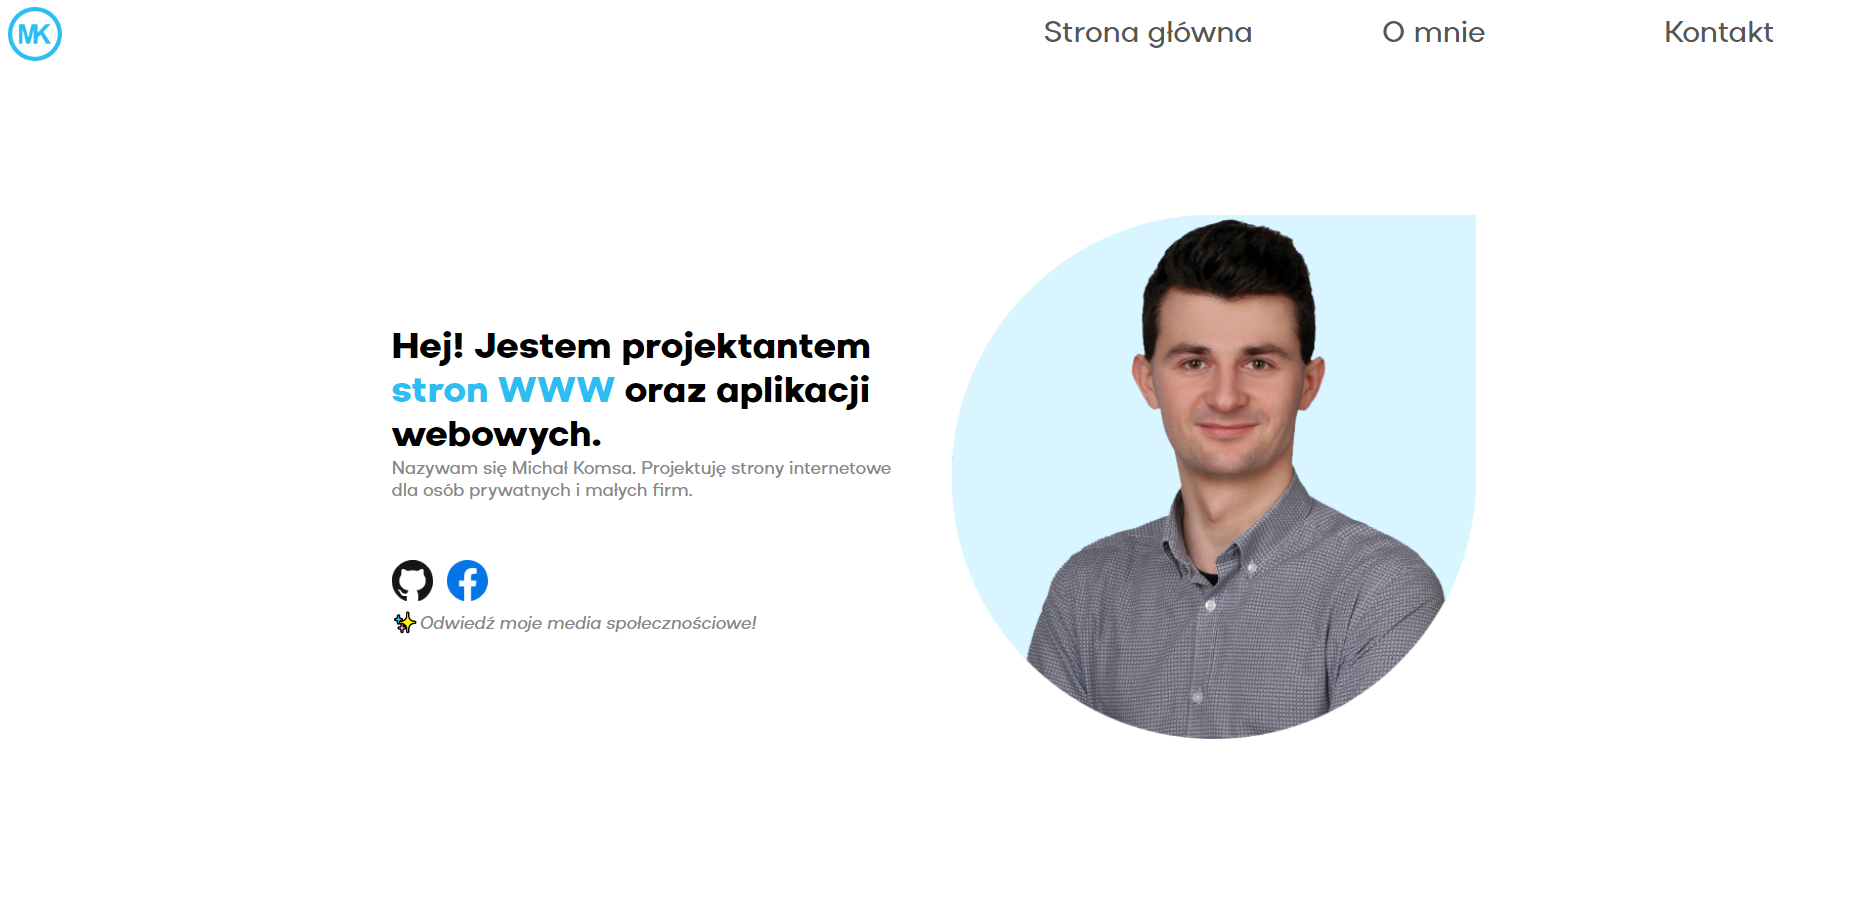
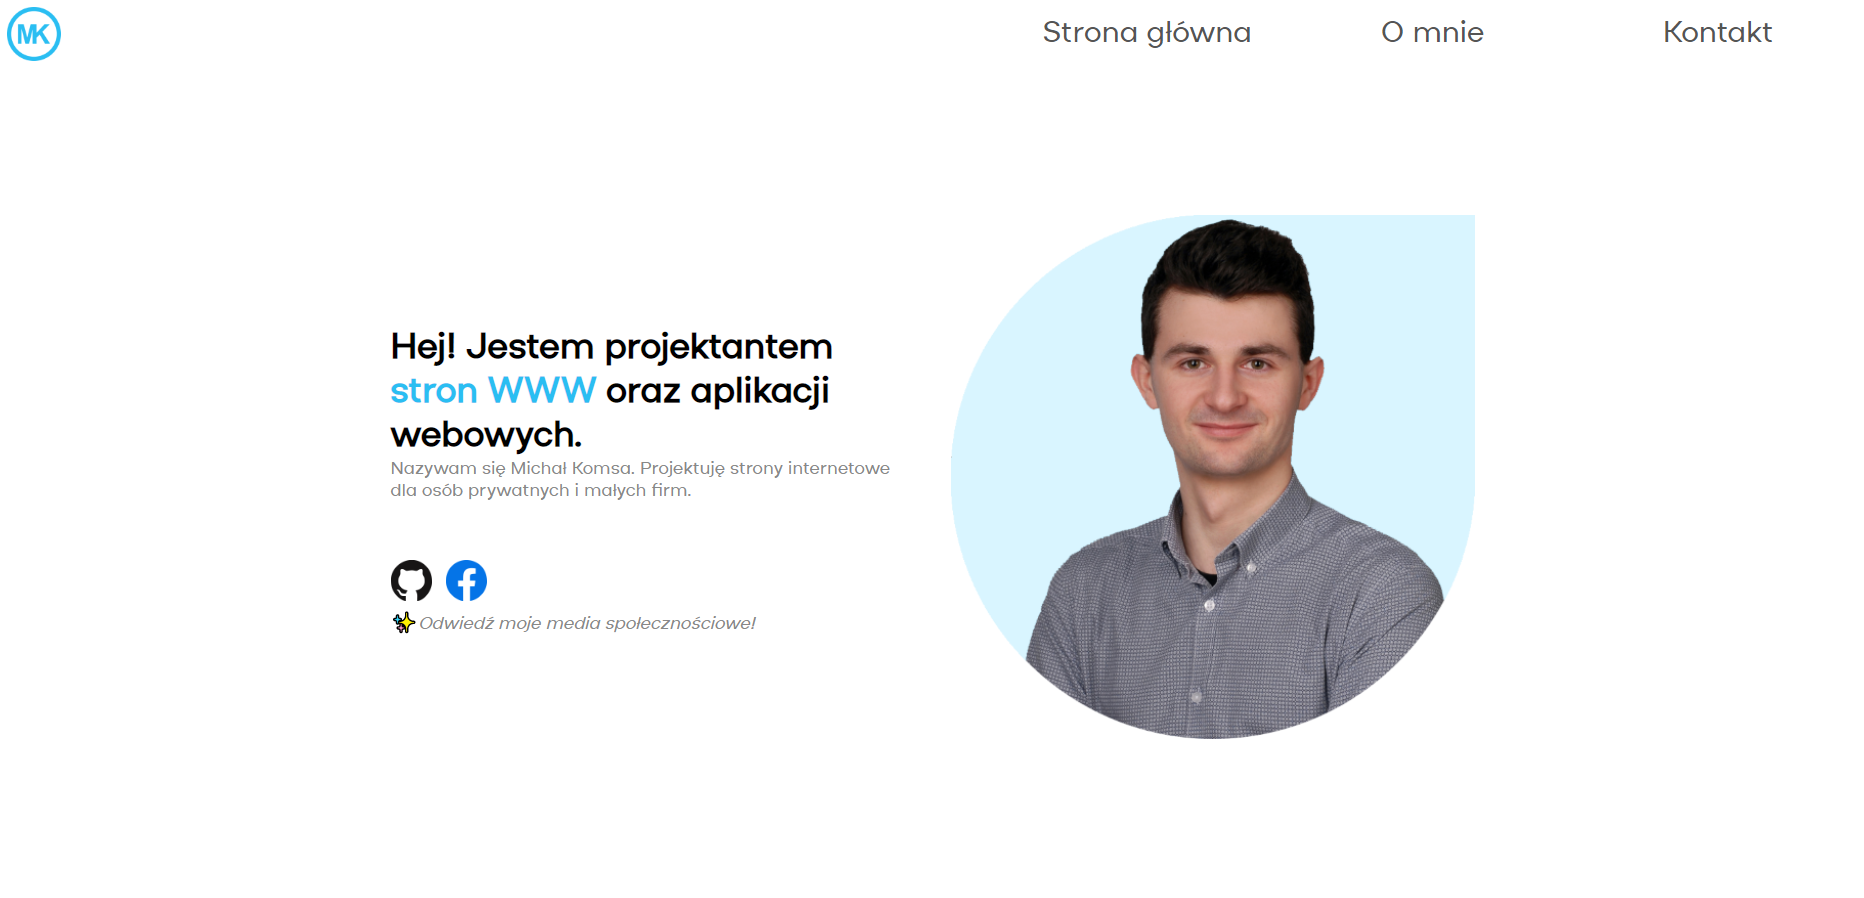
css hotfix

diff --git a/css/style.css b/css/style.css
@@ -1,6 +1,6 @@
 @font-face {
     font-family: "Aceh";
-    src: "../fonts/Aceh-Regular.ttf";
+    src: url("../fonts/Aceh-Regular.ttf");
 }
 
 body::-webkit-scrollbar {
